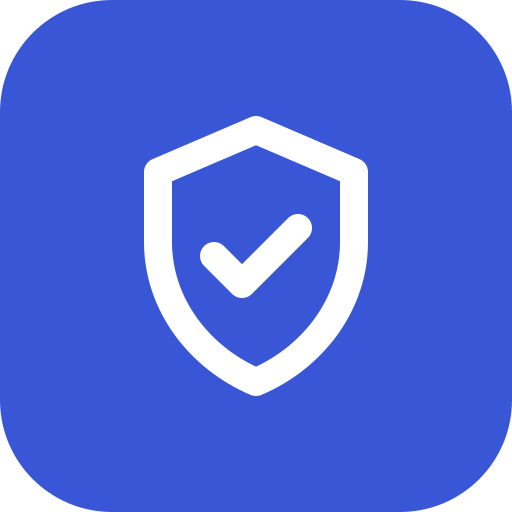
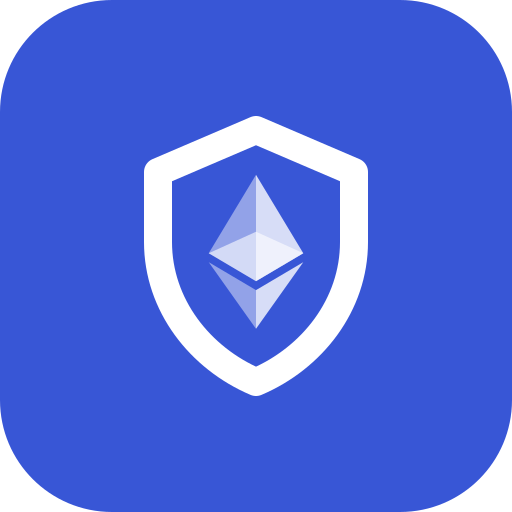
Use the published Ethereum mark inside the shield
The shield with a tick said "safe" and nothing else; a connector list full of
them says nothing about which one signs transactions. The diamond is the
Ethereum logo as published — public domain under PD-textlogo, face opacities
intact — set in the same 24-unit space as the page's header mark so the two
cannot drift.

Changed region(s): [[0.375, 0.3438, 0.625, 0.6562]]

diff --git a/wallet-relay/public/wallet.html b/wallet-relay/public/wallet.html
@@ -823,9 +823,16 @@
         <header class="app-header">
             <div class="brand">
                 <span class="brand-mark" aria-hidden="true">
+                    <!-- The same mark as icon.svg, in the same 24-unit space. -->
                     <svg width="18" height="18" viewBox="0 0 24 24" fill="none" stroke="currentColor" stroke-width="2" stroke-linecap="round" stroke-linejoin="round">
                         <path d="M12 3l7 3v5c0 4.5-3 8.3-7 10-4-1.7-7-5.5-7-10V6l7-3z"/>
-                        <path d="M9 12l2 2 4-4"/>
+                        <g transform="translate(8.6227 6.2) scale(0.0125085)" fill="currentColor" stroke="none">
+                            <path d="m269.9 325.2-269.9 122.7 269.9 159.6 270-159.6z" opacity=".6"/>
+                            <path d="m0.1 447.8 269.9 159.6v-607.4z" opacity=".45"/>
+                            <path d="m270 0v607.4l269.9-159.6z" opacity=".8"/>
+                            <path d="m0 499 269.9 380.4v-220.9z" opacity=".45"/>
+                            <path d="m269.9 658.5v220.9l270.1-380.4z" opacity=".8"/>
+                        </g>
                     </svg>
                 </span>
                 <div>
